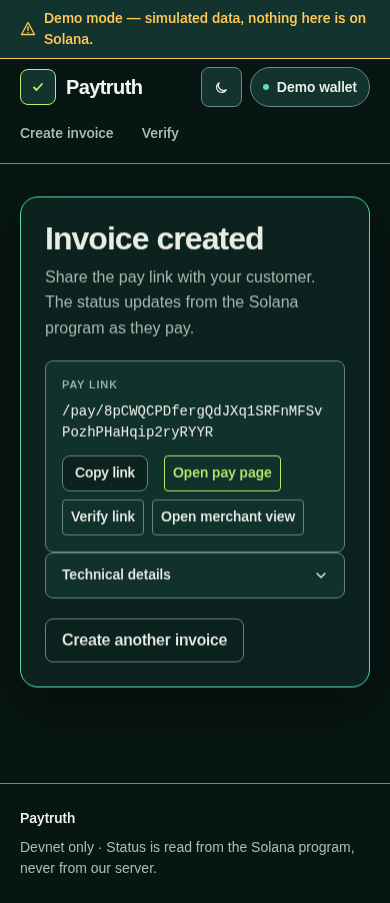
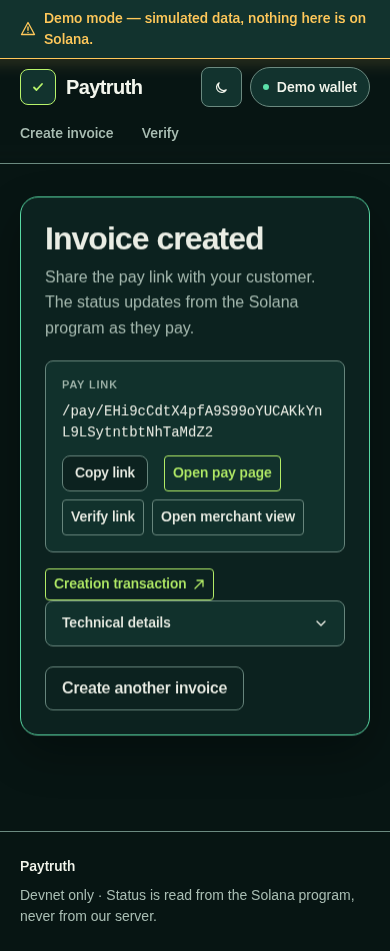
feat(ui): map FS typed errors (FeePayerUnfunded, InvoiceClosed/Expired), creation tx link, devnet run (create ok; pay blocked by SDK verify bug)

diff --git a/app/components/ui/tx/tx-errors.test.ts b/app/components/ui/tx/tx-errors.test.ts
@@ -1,6 +1,9 @@
 import { describe, expect, it } from 'vitest';
 
 import {
+  FeePayerUnfundedError,
+  InvoiceClosedError,
+  InvoiceExpiredError,
   InvoiceNotFoundError,
   MainnetRefusedError,
   TxTimeoutError,
@@ -189,7 +192,7 @@ describe('mapTxError Full-Stack mapError cases', () => {
       phase: 'failed',
       error: {
         code: 'INVOICE_CLOSED',
-        message: 'This invoice was closed by the merchant. No money moved.',
+        message: 'This invoice is closed and can no longer be paid. No money moved.',
         raw: 'Invoice not found: no invoice account exists at invoice.',
       },
     });
@@ -202,7 +205,7 @@ describe('mapTxError Full-Stack mapError cases', () => {
       phase: 'failed',
       error: {
         code: 'INVOICE_CLOSED',
-        message: 'This invoice was closed by the merchant. No money moved.',
+        message: 'This invoice is closed and can no longer be paid. No money moved.',
         raw,
       },
     });
@@ -258,6 +261,20 @@ describe('mapTxError Full-Stack mapError cases', () => {
       'Simulation failed. \nMessage: Transaction simulation failed: This account may not be used to pay transaction fees. \nLogs: \n[]. \nCatch the `SendTransactionError` and call `getLogs()` on it for full details.',
     );
     expect(mapTxError(error).error.code).toBe('INSUFFICIENT_SOL');
-    expect(mapTxError(error).error.message).toBe('Not enough SOL to pay the network fee.');
+    expect(mapTxError(error).error.message).toBe(
+      'This wallet needs a little SOL to pay network fees. Fund it with SOL and try again.',
+    );
+  });
+
+  it('maps FS typed InvoiceClosedError / InvoiceExpiredError / FeePayerUnfundedError to FS copy', () => {
+    expect(mapTxError(new InvoiceClosedError('X')).error).toMatchObject({
+      code: 'INVOICE_CLOSED',
+      message: 'This invoice is closed and can no longer be paid. No money moved.',
+    });
+    expect(mapTxError(new InvoiceExpiredError('X')).error).toMatchObject({
+      code: 'INVOICE_EXPIRED',
+      message: 'This invoice has expired. No money moved.',
+    });
+    expect(mapTxError(new FeePayerUnfundedError()).error.code).toBe('INSUFFICIENT_SOL');
   });
 });

diff --git a/app/components/ui/tx/tx-errors.ts b/app/components/ui/tx/tx-errors.ts
@@ -118,7 +118,7 @@ export function mapTxError(error: unknown): MappedTxError {
   const lower = `${text} ${mapped.name ?? ''} ${mapped.message}`.toLowerCase();
   const raw = message.length > 0 ? message : undefined;
   const hasInsufficientContext =
-    /insufficientfunds|insufficient\s*(funds|lamports|sol)|not enough sol|needs sol|no record of a prior credit|may not be used to pay transaction fees|invalidaccountforfee|insufficient funds for fee/.test(
+    /insufficientfunds|insufficient\s*(funds|lamports|sol)|not enough sol|needs sol|no record of a prior credit/.test(
       lower,
     );
   const hasProgramErrorContext =
@@ -140,6 +140,17 @@ export function mapTxError(error: unknown): MappedTxError {
     return result('rejected', 'USER_REJECTED', 'You cancelled in your wallet. Nothing was sent and no money moved.');
   }
 
+  // FS SDK typed errors (c94222a): use FS's own plain-language messages.
+  if (mapped.name === 'FeePayerUnfunded') {
+    return result('failed', 'INSUFFICIENT_SOL', mapped.message);
+  }
+  if (mapped.name === 'InvoiceClosed') {
+    return result('failed', 'INVOICE_CLOSED', `${mapped.message} No money moved.`);
+  }
+  if (error instanceof Error && error.name === 'InvoiceExpiredError') {
+    return result('failed', 'INVOICE_EXPIRED', `${mapped.message} No money moved.`);
+  }
+
   if (
     /timeout|timed out|blockhashnotfound|blockhash not found|block height exceeded|blockhash.*expired/.test(
       lower,
@@ -158,7 +169,7 @@ export function mapTxError(error: unknown): MappedTxError {
     mapped.name === 'InvoiceNotFoundError' ||
     /invoice not found/i.test(lower)
   ) {
-    return result('failed', 'INVOICE_CLOSED', 'This invoice was closed by the merchant. No money moved.');
+    return result('failed', 'INVOICE_CLOSED', 'This invoice is closed and can no longer be paid. No money moved.');
   }
 
   if (

diff --git a/app/app/merchant/new/page.tsx b/app/app/merchant/new/page.tsx
@@ -5,6 +5,7 @@ import { useEffect, useMemo, useRef, useState } from 'react';
 
 import { Address } from '@/components/ui/address';
 import { Button } from '@/components/ui/button';
+import { ExplorerLink } from '@/components/ui/explorer-link';
 import { CopyLink } from '@/components/ui/invoice/copy-link';
 import { Container, TechnicalDetails } from '@/components/ui/layout/container';
 import { Input } from '@/components/ui/input';
@@ -90,7 +91,7 @@ export default function NewInvoicePage() {
   const formValid =
     parsedAmount !== null && parsedAmount > 0n && memoError === null && expiryError === null && invoiceIdError === null && publicKey !== null;
 
-  const resultRef = useRef<{ pda: string } | null>(null);
+  const resultRef = useRef<{ pda: string; signature: string } | null>(null);
 
   const tx = useTxAction(
     async (opts) => {
@@ -103,7 +104,7 @@ export default function NewInvoicePage() {
         expiresAt: computedExpiry,
         memo,
       }, opts);
-      resultRef.current = { pda: result.invoicePda.toBase58() };
+      resultRef.current = { pda: result.invoicePda.toBase58(), signature: result.signature };
       return { signature: result.signature };
     },
     {},
@@ -157,6 +158,12 @@ export default function NewInvoicePage() {
               </Link>
             </div>
           </div>
+
+          {resultRef.current?.pda === successPda ? (
+            <div className="mt-4">
+              <ExplorerLink signature={resultRef.current.signature}>Creation transaction</ExplorerLink>
+            </div>
+          ) : null}
 
           <TechnicalDetails>
             <span className="block">Invoice address</span>

diff --git a/app/app/states/page.tsx b/app/app/states/page.tsx
@@ -18,7 +18,7 @@ const txPhases: { phase: TxPhase; label: string; state: TxState }[] = [
   { phase: 'failed', label: 'Error — duplicate', state: { status: 'failed', error: { code: 'DuplicatePayment', message: 'This invoice is already paid. You were not charged again.' } } },
   { phase: 'failed', label: 'Error — underpayment', state: { status: 'failed', error: { code: 'Underpayment', message: "That's less than the amount due. Nothing was sent." } } },
   { phase: 'failed', label: 'Error — expired invoice', state: { status: 'failed', error: { code: 'InvoiceExpired', message: "This invoice has expired and can't be paid." } } },
-  { phase: 'failed', label: 'Error — invoice closed', state: { status: 'failed', error: { code: 'INVOICE_CLOSED', message: 'This invoice was closed by the merchant. No money moved.' } } },
+  { phase: 'failed', label: 'Error — invoice closed', state: { status: 'failed', error: { code: 'INVOICE_CLOSED', message: 'This invoice is closed and can no longer be paid. No money moved.' } } },
 ];
 
 const derivedSamples: { kind: DerivedKind; headline: string; explanation: string }[] = [

diff --git a/app/tests/devnet/ui-devnet.spec.ts b/app/tests/devnet/ui-devnet.spec.ts
@@ -214,7 +214,8 @@ test.describe('devnet: full UI flow with test wallets', () => {
     record({ step: 'expire C', pda, signature: await lastSignature(mp), result: 'ok' });
     await mp.goto(`/merchant/${pda}`);
     await mp.getByRole('button', { name: 'Close invoice' }).click();
-    await expect(mp.locator('main')).toContainText(/Closed/, { timeout: 150_000 });
+    await waitFinal(mp);
+    await expect(mp.locator('main')).toContainText('Closed — the invoice account was removed', { timeout: 60_000 });
     record({ step: 'close C', pda, signature: await lastSignature(mp), result: 'ok' });
     await mp.goto(`/merchant/${pda}`);
     await expect(mp.getByRole('heading', { name: 'Closed' })).toBeVisible({ timeout: 90_000 });
